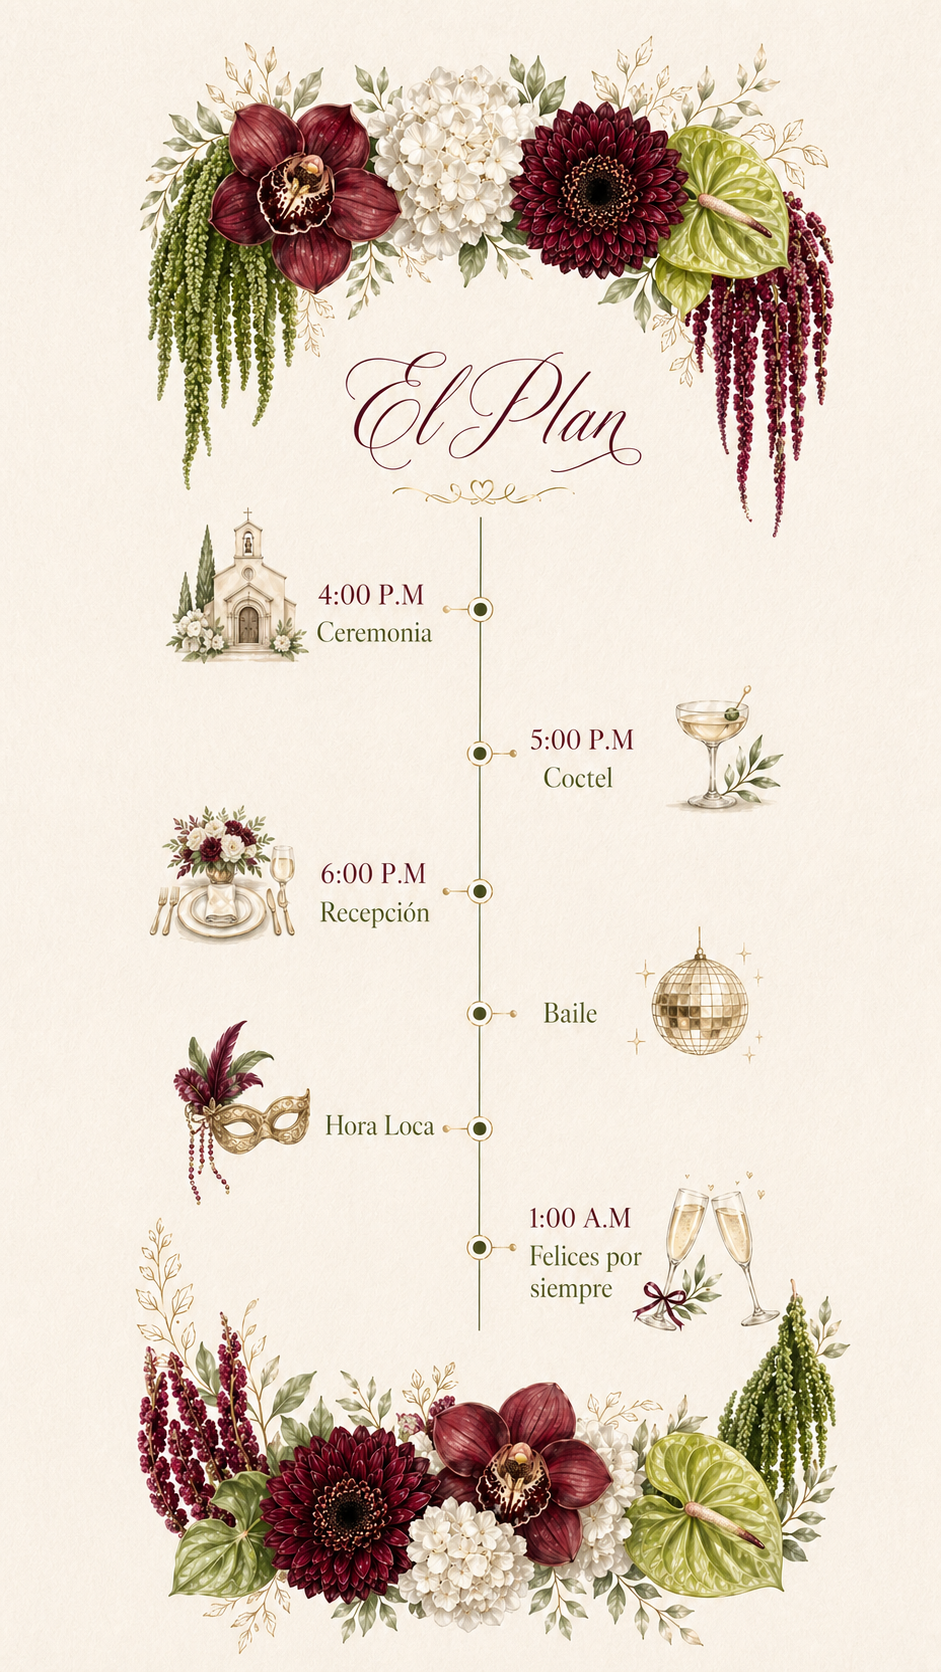
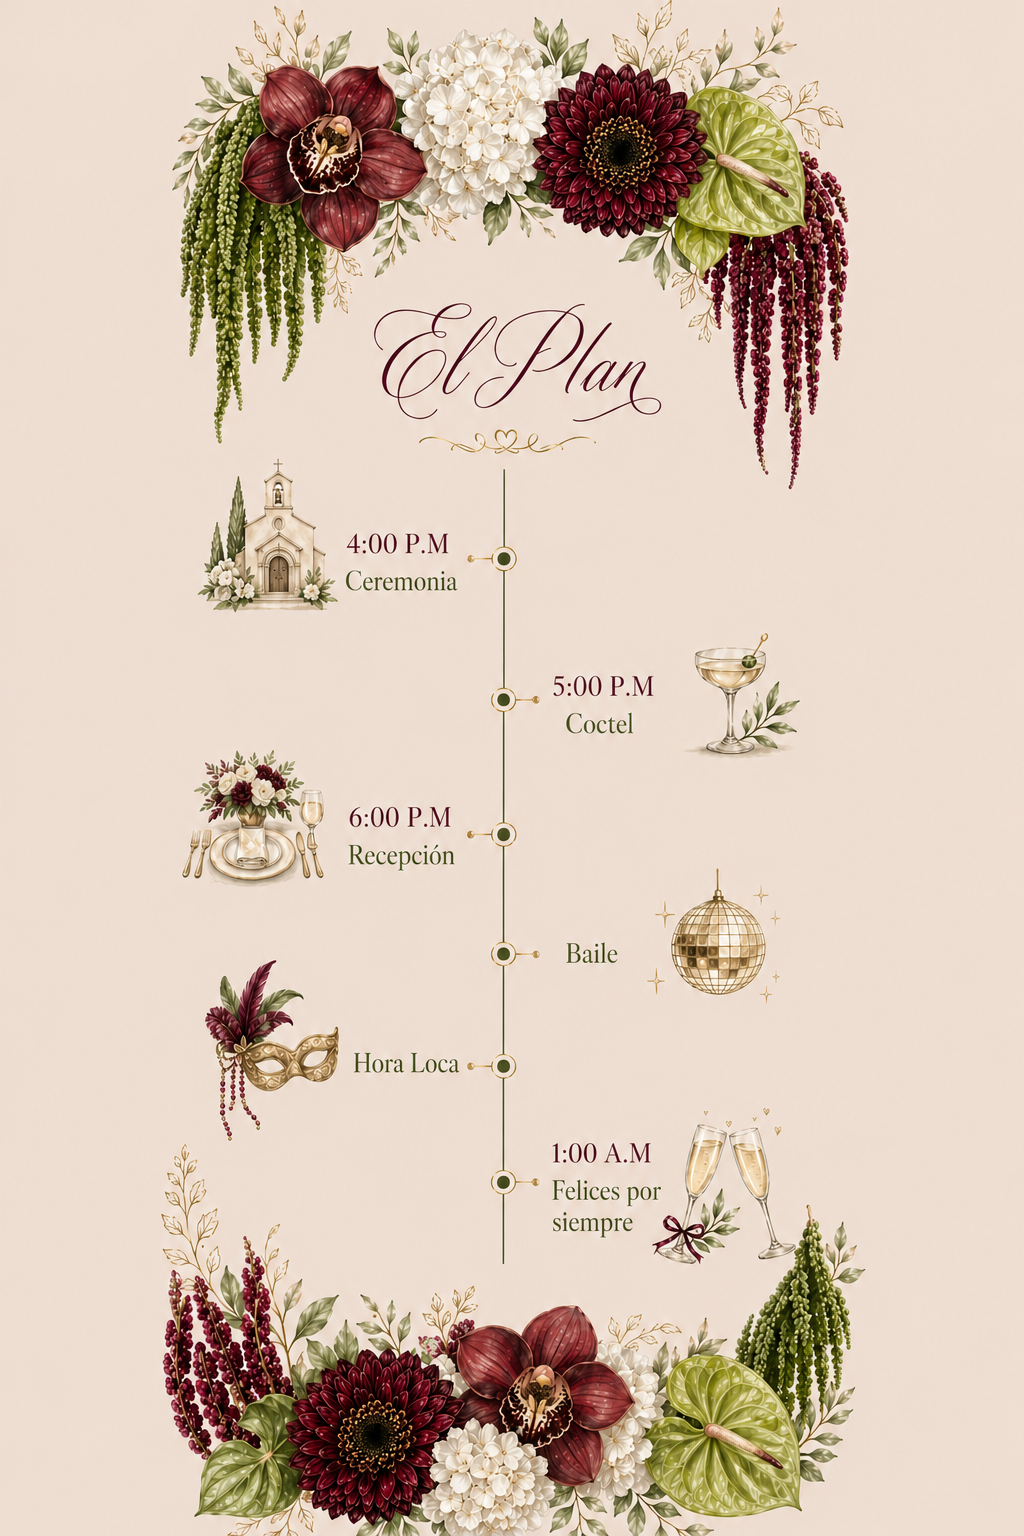
feat: info evento como tarjeta-imagen + el plan v2 + tarjetas blancas
- Sección "Información del evento" reemplazada por imagen botánica con estilo tarjeta (max-width 460px + box-shadow)
- itinerario-art.png reemplazado por la versión nueva de "El Plan"
- Fondos de tarjetas (countdown, RSVP, dress, adultos, gift, itinerary, playlist, FAQ, closing) cambiados de cream/textura a blanco para mejor contraste
- Story-items y location-card ahora tienen fondo blanco con shadow (antes eran solo texto sobre cream)

diff --git a/index.html b/index.html
@@ -742,7 +742,7 @@ body.locked { overflow: hidden; }
 #faq { background: transparent; }
 .faq-list { max-width: 640px; margin: 0 auto; display: flex; flex-direction: column; gap: 0.7rem; }
 .faq-item {
-  background: var(--cream);
+  background: #ffffff;
   border: 1px solid rgba(196, 197, 160, 0.4);
   padding: 1rem 1.2rem;
   box-shadow: 0 1px 0 rgba(120, 75, 30, 0.12), 0 4px 8px rgba(95, 55, 20, 0.1);
@@ -789,7 +789,7 @@ body.locked { overflow: hidden; }
 .closing-card {
   max-width: 520px; margin: 0 auto; padding: 2.6rem 1.8rem;
   text-align: center;
-  background: var(--cream);
+  background: #ffffff;
   border: 1px solid rgba(88, 4, 16, 0.25);
   box-shadow:
     0 1px 0 rgba(120, 75, 30, 0.16),
@@ -851,6 +851,29 @@ body.locked { overflow: hidden; }
 @keyframes introArtFadeIn {
   0%   { opacity: 0; transform: translateY(20px) scale(0.98); }
   100% { opacity: 1; transform: translateY(0)    scale(1); }
+}
+
+/* ============================================================
+   INFORMACIÓN DEL EVENTO · imagen botánica con estilo tarjeta
+============================================================ */
+.info-evento-card-wrap {
+  width: 100%;
+  padding: 3rem 1.5rem 2.5rem;
+  display: flex;
+  justify-content: center;
+  background: transparent;
+}
+.info-evento-card-img {
+  width: 100%;
+  max-width: 460px;
+  height: auto;
+  display: block;
+  user-select: none;
+  box-shadow:
+    0 1px 0 rgba(120, 75, 30, 0.16),
+    0 3px 5px rgba(95, 55, 20, 0.18),
+    0 12px 22px rgba(85, 45, 15, 0.18),
+    0 28px 48px rgba(70, 35, 10, 0.16);
 }
 
 /* ============================================================
@@ -949,7 +972,7 @@ body.locked { overflow: hidden; }
 #countdown { background: transparent; }
 .countdown-tiles { display: flex; justify-content: center; gap: 0.7rem; flex-wrap: wrap; margin-top: 1.5rem; }
 .countdown-tile { display: flex; flex-direction: column; align-items: center; min-width: 76px; }
-.countdown-value { width: 76px; height: 84px; display: flex; align-items: center; justify-content: center; font-family: var(--font-serif); font-weight: 400; font-size: 2.6rem; color: var(--wine); background: url("Textura%20papel.png"), var(--cream); background-size: cover, 100% 100%; background-blend-mode: multiply, normal; border: 1px solid rgba(196, 197, 160, 0.45); border-radius: 2px; box-shadow: 0 1px 0 rgba(120, 75, 30, 0.15), 0 4px 8px rgba(95, 55, 20, 0.13); }
+.countdown-value { width: 76px; height: 84px; display: flex; align-items: center; justify-content: center; font-family: var(--font-serif); font-weight: 400; font-size: 2.6rem; color: var(--wine); background: #ffffff; border: 1px solid rgba(196, 197, 160, 0.45); border-radius: 2px; box-shadow: 0 1px 0 rgba(120, 75, 30, 0.15), 0 4px 8px rgba(95, 55, 20, 0.13); }
 .countdown-label { margin-top: 0.65rem; font-family: var(--font-serif); font-style: italic; font-size: 0.78rem; letter-spacing: 0.3em; text-transform: uppercase; color: var(--olive-dark); }
 
 /* ============================================================
@@ -958,7 +981,7 @@ body.locked { overflow: hidden; }
 #fechas { background: transparent; }
 .fechas-list { display: grid; grid-template-columns: 1fr; gap: 1.2rem; max-width: 560px; margin: 0 auto; }
 @media (min-width: 720px) { .fechas-list { grid-template-columns: repeat(3, 1fr); } }
-.fecha-card { text-align: center; padding: 2rem 1rem; background: url("Textura%20papel.png"), var(--cream); background-size: cover, 100% 100%; background-blend-mode: multiply, normal; border: 1px solid rgba(196, 197, 160, 0.4); box-shadow: 0 1px 0 rgba(120, 75, 30, 0.15), 0 4px 8px rgba(95, 55, 20, 0.15), 0 14px 26px rgba(85, 45, 15, 0.15); }
+.fecha-card { text-align: center; padding: 2rem 1rem; background: #ffffff; border: 1px solid rgba(196, 197, 160, 0.4); box-shadow: 0 1px 0 rgba(120, 75, 30, 0.15), 0 4px 8px rgba(95, 55, 20, 0.15), 0 14px 26px rgba(85, 45, 15, 0.15); }
 .fecha-day { font-family: var(--font-serif); color: var(--wine); font-size: 3.4rem; font-weight: 300; line-height: 1; }
 .fecha-month { font-family: var(--font-serif); font-style: italic; color: var(--olive-dark); font-size: 1.05rem; margin-top: 0.2rem; letter-spacing: 0.1em; }
 .fecha-year { font-size: 0.62rem; letter-spacing: 0.4em; text-transform: uppercase; color: var(--muted); margin-top: 0.4rem; }
@@ -977,7 +1000,7 @@ body.locked { overflow: hidden; }
    LOCATION
 ============================================================ */
 #location { background: transparent; }
-.location-card { text-align: center; max-width: 460px; margin: 0 auto; }
+.location-card { text-align: center; max-width: 460px; margin: 0 auto; padding: 2rem 1.5rem; background: #ffffff; border: 1px solid rgba(196, 197, 160, 0.4); box-shadow: 0 1px 0 rgba(120, 75, 30, 0.15), 0 6px 12px rgba(95, 55, 20, 0.13), 0 18px 32px rgba(85, 45, 15, 0.12); }
 .location-name { font-family: var(--font-serif); font-weight: 400; color: var(--wine); font-size: 1.8rem; }
 .location-address { margin-top: 0.5rem; color: var(--ink); font-size: 0.95rem; }
 .location-note { margin-top: 1.2rem; font-style: italic; color: var(--muted); font-size: 0.85rem; }
@@ -994,7 +1017,7 @@ body.locked { overflow: hidden; }
 ============================================================ */
 #rsvp { background: transparent; }
 .rsvp-wrap { max-width: 520px; margin: 0 auto; }
-.rsvp-card { background: url("Textura%20papel.png"), var(--cream); background-size: cover, 100% 100%; background-blend-mode: multiply, normal; border: 1px solid rgba(196, 197, 160, 0.4); padding: 1.8rem 1.4rem; box-shadow: 0 1px 0 rgba(120, 75, 30, 0.15), 0 6px 12px rgba(95, 55, 20, 0.15), 0 18px 32px rgba(85, 45, 15, 0.15); }
+.rsvp-card { background: #ffffff; border: 1px solid rgba(196, 197, 160, 0.4); padding: 1.8rem 1.4rem; box-shadow: 0 1px 0 rgba(120, 75, 30, 0.15), 0 6px 12px rgba(95, 55, 20, 0.15), 0 18px 32px rgba(85, 45, 15, 0.15); }
 @media (min-width: 640px) { .rsvp-card { padding: 2.2rem 2rem; } }
 
 .rsvp-label { font-family: var(--font-serif); font-style: italic; font-weight: 500; font-size: 0.72rem; letter-spacing: 0.32em; text-transform: uppercase; color: var(--olive-dark); margin-bottom: 0.6rem; display: block; }
@@ -1053,7 +1076,7 @@ body.locked { overflow: hidden; }
 #dresscode { background: transparent; }
 .dress-grid { display: grid; grid-template-columns: 1fr; gap: 1rem; }
 @media (min-width: 640px) { .dress-grid { grid-template-columns: 1fr 1fr; } }
-.dress-card { padding: 1.5rem; background: url("Textura%20papel.png"), var(--cream); background-size: cover, 100% 100%; background-blend-mode: multiply, normal; border: 1px solid rgba(196, 197, 160, 0.4); box-shadow: 0 1px 0 rgba(120, 75, 30, 0.15), 0 4px 8px rgba(95, 55, 20, 0.13), 0 12px 22px rgba(85, 45, 15, 0.13); }
+.dress-card { padding: 1.5rem; background: #ffffff; border: 1px solid rgba(196, 197, 160, 0.4); box-shadow: 0 1px 0 rgba(120, 75, 30, 0.15), 0 4px 8px rgba(95, 55, 20, 0.13), 0 12px 22px rgba(85, 45, 15, 0.13); }
 .dress-card.forbidden { border-color: rgba(184, 69, 94, 0.45); }
 .dress-heading { font-family: var(--font-serif); font-style: italic; font-weight: 500; font-size: 0.72rem; letter-spacing: 0.32em; text-transform: uppercase; color: var(--olive-dark); margin-bottom: 1rem; }
 .dress-card.forbidden .dress-heading { color: var(--wine); }
@@ -1069,7 +1092,7 @@ body.locked { overflow: hidden; }
    ADULTS
 ============================================================ */
 #adults { padding: 3rem 1.5rem; }
-.adults-card { max-width: 500px; margin: 0 auto; padding: 2.2rem 1.5rem; background: url("Textura%20papel.png"), var(--cream); background-size: cover, 100% 100%; background-blend-mode: multiply, normal; border: 1px solid rgba(196, 197, 160, 0.4); text-align: center; box-shadow: 0 1px 0 rgba(120, 75, 30, 0.15), 0 6px 14px rgba(95, 55, 20, 0.13), 0 18px 32px rgba(85, 45, 15, 0.12); }
+.adults-card { max-width: 500px; margin: 0 auto; padding: 2.2rem 1.5rem; background: #ffffff; border: 1px solid rgba(196, 197, 160, 0.4); text-align: center; box-shadow: 0 1px 0 rgba(120, 75, 30, 0.15), 0 6px 14px rgba(95, 55, 20, 0.13), 0 18px 32px rgba(85, 45, 15, 0.12); }
 .adults-icon { color: var(--wine); margin-bottom: 0.8rem; }
 .adults-text { font-family: var(--font-serif); font-style: italic; color: var(--wine); font-size: 1.2rem; line-height: 1.5; }
 .adults-sub { margin-top: 0.7rem; font-size: 0.7rem; letter-spacing: 0.25em; text-transform: uppercase; color: var(--muted); }
@@ -1080,7 +1103,7 @@ body.locked { overflow: hidden; }
 #gifts { background: transparent; }
 .gifts-grid { display: grid; grid-template-columns: 1fr; gap: 1rem; }
 @media (min-width: 640px) { .gifts-grid { grid-template-columns: 1fr 1fr; } }
-.gift-card { padding: 1.5rem; background: url("Textura%20papel.png"), var(--cream); background-size: cover, 100% 100%; background-blend-mode: multiply, normal; border: 1px solid rgba(196, 197, 160, 0.4); box-shadow: 0 1px 0 rgba(120, 75, 30, 0.15), 0 4px 8px rgba(95, 55, 20, 0.13), 0 12px 22px rgba(85, 45, 15, 0.13); }
+.gift-card { padding: 1.5rem; background: #ffffff; border: 1px solid rgba(196, 197, 160, 0.4); box-shadow: 0 1px 0 rgba(120, 75, 30, 0.15), 0 4px 8px rgba(95, 55, 20, 0.13), 0 12px 22px rgba(85, 45, 15, 0.13); }
 .gift-heading { font-family: var(--font-serif); font-style: italic; font-weight: 500; font-size: 0.72rem; letter-spacing: 0.32em; text-transform: uppercase; color: var(--olive-dark); margin-bottom: 0.5rem; }
 .gift-title { font-family: var(--font-serif); color: var(--wine); font-size: 1.25rem; font-weight: 400; }
 .gift-sub { margin-top: 0.3rem; font-size: 0.9rem; color: var(--ink); }
@@ -1148,7 +1171,7 @@ footer { padding: 3rem 1.5rem 2rem; background: var(--wine); color: var(--cream)
 #historia { background: transparent; }
 .story-timeline { position: relative; max-width: 560px; margin: 0 auto; padding-left: 1.2rem; }
 .story-timeline::before { content: ''; position: absolute; left: 7px; top: 6px; bottom: 6px; width: 1px; background: linear-gradient(to bottom, transparent, var(--wine) 15%, var(--wine) 85%, transparent); opacity: 0.35; }
-.story-item { position: relative; margin-bottom: 2.2rem; }
+.story-item { position: relative; margin-bottom: 2.2rem; padding: 1.4rem 1.3rem 1.3rem 1.5rem; background: #ffffff; border: 1px solid rgba(196, 197, 160, 0.4); box-shadow: 0 1px 0 rgba(120, 75, 30, 0.12), 0 4px 8px rgba(95, 55, 20, 0.1), 0 12px 22px rgba(85, 45, 15, 0.1); }
 .story-item:last-child { margin-bottom: 0; }
 .story-dot { position: absolute; left: -1.2rem; top: 0.35rem; width: 14px; height: 14px; border-radius: 50%; background: var(--ivory); border: 2px solid var(--olive-dark); box-shadow: 0 0 0 4px var(--cream), 0 2px 4px rgba(78, 92, 29, 0.3); }
 .story-year { font-family: var(--font-serif); font-style: italic; font-weight: 500; font-size: 0.72rem; letter-spacing: 0.4em; text-transform: uppercase; color: var(--olive-dark); }
@@ -1162,7 +1185,7 @@ footer { padding: 3rem 1.5rem 2rem; background: var(--wine); color: var(--cream)
 ============================================================ */
 #itinerario { background: transparent; }
 .itinerary-list { max-width: 520px; margin: 0 auto; display: flex; flex-direction: column; gap: 0.8rem; }
-.itinerary-card { display: grid; grid-template-columns: 74px 1fr; gap: 1rem; padding: 1.1rem 1.2rem; background: url("Textura%20papel.png"), var(--cream); background-size: cover, 100% 100%; background-blend-mode: multiply, normal; border: 1px solid rgba(196, 197, 160, 0.4); position: relative; box-shadow: 0 1px 0 rgba(120, 75, 30, 0.12), 0 3px 6px rgba(95, 55, 20, 0.12), 0 10px 18px rgba(85, 45, 15, 0.12); }
+.itinerary-card { display: grid; grid-template-columns: 74px 1fr; gap: 1rem; padding: 1.1rem 1.2rem; background: #ffffff; border: 1px solid rgba(196, 197, 160, 0.4); position: relative; box-shadow: 0 1px 0 rgba(120, 75, 30, 0.12), 0 3px 6px rgba(95, 55, 20, 0.12), 0 10px 18px rgba(85, 45, 15, 0.12); }
 .itinerary-card::before { content: ''; position: absolute; left: 0; top: 0; bottom: 0; width: 3px; background: var(--wine); }
 .itinerary-time { font-family: var(--font-serif); color: var(--wine); font-size: 1.15rem; font-weight: 500; text-align: right; padding-right: 0.8rem; border-right: 1px solid rgba(217, 167, 172, 0.5); line-height: 1.1; align-self: center; }
 .itinerary-time small { display: block; font-size: 0.6rem; color: var(--muted); letter-spacing: 0.2em; text-transform: uppercase; margin-top: 0.15rem; font-weight: 400; }
@@ -1176,9 +1199,7 @@ footer { padding: 3rem 1.5rem 2rem; background: var(--wine); color: var(--cream)
 #playlist { background: transparent; position: relative; overflow: hidden; }
 .playlist-card {
   max-width: 480px; margin: 0 auto; padding: 2.2rem 1.6rem; text-align: center;
-  background: url("Textura%20papel.png"), var(--cream);
-  background-size: cover, 100% 100%;
-  background-blend-mode: multiply, normal;
+  background: #ffffff;
   border: 1px solid rgba(196, 197, 160, 0.4);
   box-shadow:
     0 1px 0 rgba(120, 75, 30, 0.15),
@@ -1463,24 +1484,9 @@ footer { padding: 3rem 1.5rem 2rem; background: var(--wine); color: var(--cream)
     <img class="intro-art-img" src="intro-art.png" alt="Valeria y Apolo · Acompáñanos en nuestra boda · 7 de Noviembre 2026 · Finca San Bernardo" draggable="false">
   </section>
 
-  <!-- 2. INFORMACIÓN DEL EVENTO -->
-  <section class="hero" id="evento">
-    <div class="hero-card reveal">
-      <div class="hero-eyebrow">Información del evento</div>
-      <div class="hero-photo-wrap">
-        <img id="hero-photo" alt="Valeria y Apolo" src="WhatsApp%20Image%202026-04-24%20at%2012.13.50%20PM.jpeg">
-      </div>
-      <h1 class="hero-names">Valeria</h1>
-      <div class="hero-amp"><span>&amp;</span></div>
-      <h1 class="hero-names">Apolo</h1>
-      <div class="hero-date">
-        <div class="day">07</div>
-        <div class="meta"><strong>Sábado</strong>Noviembre<br>2026</div>
-      </div>
-      <div class="hero-venue">Eventos San Bernardo · 4:00 p.m.</div>
-      <p class="hero-intro-text">Acompáñanos a celebrar el día más importante de nuestras vidas. Con cariño te invitamos a ser parte de cada momento.</p>
-      <button class="hero-rsvp-btn" onclick="scrollTo('rsvp')">Confirmar asistencia</button>
-    </div>
+  <!-- 2. INFORMACIÓN DEL EVENTO · imagen botánica con estilo tarjeta -->
+  <section class="info-evento-card-wrap" id="evento">
+    <img class="info-evento-card-img reveal" src="info-evento-art.png" alt="Información del evento · Valeria y Apolo · 07 Sábado Noviembre 2026 · Finca San Bernardo · 4:00 p.m." draggable="false">
   </section>
 
   <!-- COUNTDOWN -->
